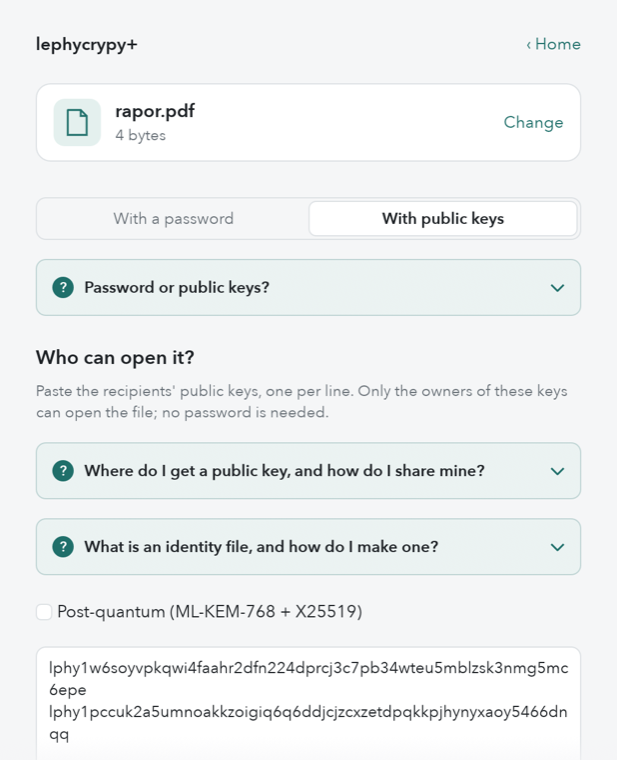
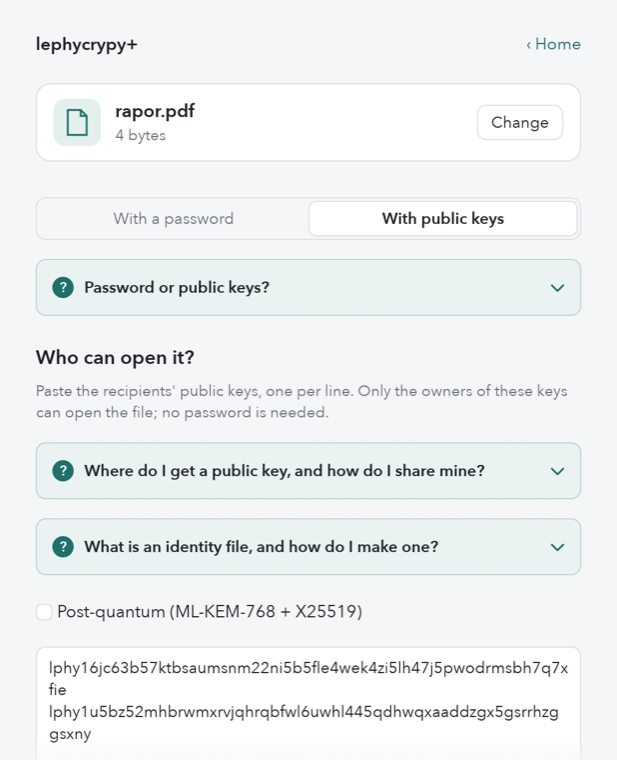
Docs: several vaults, public-key and USB vaults, lock moments, QR codes
README (English and Turkish), threat model and changelog; new
screenshots of the key and vault screens.

Changed region(s): [[0.0924, 0.8474, 0.9238, 0.9987], [0.8006, 0.1513, 0.9238, 0.1816]]

diff --git a/README.tr.md b/README.tr.md
@@ -42,9 +42,13 @@ indirilir.
   adımdan önce aygıt kimliğini yeniden denetler.
 - **Masaüstü uygulaması** (macOS ve Windows, Türkçe ve İngilizce): sürükle-bırak, `.lphy`
   dosyasına çift tıklama, isteğe bağlı sağ tık girişleri (Finder Hızlı İşlemi, Gezgin menüsü).
-- **Kasa.** Şifreli bir klasörü bir kez açıp içinde çalışın, sonra kaydedip yeniden kilitleyin;
-  macOS'ta açık kopya bir RAM diskte durur. Bilgisayarın başında değilken, ekran kilitlenince ya
-  da bilgisayar uykudan uyanınca kendiliğinden kaydedilip kilitlenir.
+- **Kasalar.** Şifreli bir klasörü bir kez açıp içinde çalışın, sonra kaydedip yeniden
+  kilitleyin; macOS'ta açık kopya bir RAM diskte durur. Aynı anda istediğiniz kadar kasa açık
+  olabilir; kasa parolayla ya da açık anahtarlarla kilitlenir; her USB bellek kasa olabilir.
+  Bilgisayarın başında değilken, ekran kilitlenince, uykudan önce, pencere kapatılınca ya da
+  klasörü kapatılınca kendiliğinden kaydedilip kilitlenir.
+- **QR kod:** anahtarın kâğıt yedeği için (macOS'ta yazdırma ile) ve açık anahtarı telefonla
+  paylaşmak için.
 - **Diske yazmadan önizleme.** Şifreli bir metin, PNG ya da JPEG'e bellekte bakın; diske hiçbir
   şey yazılmaz.
 - **Kuyruk.** Birden çok dosya sırayla, her birinin durumu görünerek işlenir; iş sürerken yenileri
@@ -171,7 +175,8 @@ Ayrıntılar İngilizce README'dedir.
 
 İlk açılışta üç adımlı kısa bir tanıtım çıkar. Sonrasında açılış ekranında altı kart vardır:
 **Şifrele**, **Şifreyi çöz**, **Anahtarlarım** (anahtar çifti oluşturma, bir kimliğin açık
-anahtarlarını gösterme, kâğıt yedeği alma ya da ondan geri yükleme), **Ayarlar**, **Kasa** ve
+anahtarlarını gösterme — QR kod olarak da — kâğıt yedeğini QR koduyla alma, macOS'ta yazdırma
+ya da ondan geri yükleme), **Ayarlar**, **Kasa** ve
 **USB belleğe yaz**. Altında bir bırakma alanı bulunur. Her ekranda kısa **?** yardım kutuları
 vardır; açılış ekranındaki **Yardım** hepsini bir arada gösterir.
 
@@ -206,8 +211,9 @@ durumuna küçültür.
   kullanılmasını engeller (komut satırı aracını değil); şifreli dosyalar kendi parolaları ve
   anahtarlarıyla korunur. Kilit Anahtar Zinciri'nde de (Windows'ta Kimlik Bilgisi Yöneticisi'nde)
   saklanır; parolayı unutursanız oradaki "lephycrypy+" kaydını ve ayar dosyasını silin.
-- **Kasa:** açık bir kasayı 5, 15 (varsayılan), 30 ya da 60 dakika hareketsizlikten sonra
-  kilitleme ya da hiç kilitlememe; ekran kilitlenince ya da bilgisayar uykudan uyanınca kilitleme.
+- **Kasa:** açık kasaları 5, 15 (varsayılan), 30 ya da 60 dakika hareketsizlikten sonra
+  kilitleme ya da hiç kilitlememe; ayrıca her biri ayrı anahtarla: ekran kilitlenince (uykudan
+  önce ve uyanınca da), pencere kapatılınca, çıkarken sormadan ve kasa klasörü kapatılınca.
 - **Bakım:** bir klasörde yarıda kalan şifre çözmelerin artıklarını arama (ev klasörü,
   Masaüstü, İndirilenler ve Belgeler açılışta kendiliğinden taranır).
 - **Finder Hızlı İşlemi** (macOS, yalnızca .app paketi): Finder'da sağ tık → **Hızlı İşlemler**
@@ -234,17 +240,31 @@ listeler; liste yalnızca bellekte tutulur.
 
 ### Kasa (masaüstü uygulaması)
 
-Ana sayfa › **Kasa**: **Kasa aç…** (şifreli bir klasör ve parolası) ya da **Yeni boş kasa
-oluştur…** (ad, yer ve parola). Klasör Finder'da / Gezgin'de açılır ve uygulamanın üstündeki şerit
-kasanın açık olduğunu gösterir. İçinde her zamanki gibi çalışın, sonra **Kaydet ve kilitle** ile
-aynı parolayla yeniden şifreleyip açık kopyayı kaldırın (**Kaydet** kasayı açık bırakır).
-macOS'ta açık kopya bir RAM diskte (yalnızca bellekte), Windows'ta gizli bir uygulama klasöründe
-durur ve kasa kapatılınca üzerine yazılarak silinir.
+Ana sayfa › **Kasa**: **Kasa aç…**, **Yeni boş kasa oluştur…** ya da **USB belleği kasa
+yap…**. Klasör Finder'da / Gezgin'de açılır ve uygulamanın üstünde her açık kasa için bir kart
+çıkar; kartta üç düğme vardır: **Kaydet ve kilitle** (yeniden şifreleyip açık kopyayı kaldırır),
+**Klasörü aç** ve **⋯** (**Yalnızca kaydet**, **Kaydetmeden kapat…**). Aynı anda istediğiniz
+kadar kasa açık olabilir. macOS'ta açık kopya bir RAM diskte (yalnızca bellekte; açık kasaların
+toplamı belleğin en çok yarısını kullanabilir), Windows'ta gizli bir uygulama klasöründe durur
+ve kasa kapatılınca üzerine yazılarak silinir.
 
-Kasa, ayarlanan süre boyunca klavye ve fare kullanılmazsa (varsayılan 15 dakika), ekran
-kilitlenince ve bilgisayar uykudan uyanınca kendiliğinden kaydedilip kilitlenir; bu, pencere
-gizliyken de arka planda çalışır. Kasa açıkken çıkmak önce sorar; bir çökme yüzünden açık kalan
-kasa bir sonraki açılışta bulunur.
+Yeni bir kasa **parolayla** ya da **açık anahtarlarla** kilitlenir. Açık anahtarlarla kilitli
+bir kasa kimlik dosyasıyla açılır; alıcı listesi kasanın içinde (`.lephy-recipients`, kasayla
+birlikte şifreli) tutulur ve kartın **Alıcılar** düğmesiyle düzenlenir. Her kaydetmenin
+doğrulanabilmesi için listede kendi anahtarınız kalmalıdır.
+
+**USB bellekler.** "USB belleği kasa yap" ya belleğe bir kasa dosyası ekler ve diğer dosyaları
+korur, ya da belleği önce siler (adını ve boyutunu yazdıktan sonra). Kasa içeren bir bellek
+takılınca üstte bir şerit onu açmayı önerir (parola sorar; kendiliğinden hiçbir şey açılmaz).
+Açık kopya bu bilgisayarın belleğinde durur; belleğe yalnızca kilitlerken şifreli dosya yazılır.
+Kasası açıkken bellek çıkarılırsa kart kırmızıya döner ve **Başka yere kaydet…** önerir.
+
+Kasalar, ayarlanan süre boyunca klavye ve fare kullanılmazsa (varsayılan 15 dakika), ekran
+kilitlenince, bilgisayar uykuya geçmeden önce ve uyanınca, pencere kapatılınca, çıkarken ve
+kasanın Finder / Gezgin penceresi kapatılıp içindeki hiçbir dosya açık değilken (30 saniye sonra;
+macOS bunun için bir kez Finder'ı denetleme izni ister) kendiliğinden kaydedilip kilitlenir. Her
+anın Ayarlar › Kasa'da ayrı bir anahtarı vardır. Denetimler pencere gizliyken de arka planda
+çalışır. Bir çökme yüzünden açık kalan kasa bir sonraki açılışta bulunur.
 
 ### USB belleğe yazma (masaüstü uygulaması)
 

diff --git a/README.md b/README.md
@@ -42,9 +42,13 @@ effort** basis.
   checks before every destructive step.
 - **Desktop app** for macOS and Windows in English and Turkish: drag and drop, double-click `.lphy`
   files, and optional right-click entries (a Finder Quick Action, an Explorer menu entry).
-- **Vault.** Open an encrypted folder once, work in it, then save and lock it again; on macOS the
-  open copy lives on a RAM disk. It saves and locks itself when you are away, the screen locks or
-  the computer wakes from sleep.
+- **Vaults.** Open an encrypted folder once, work in it, then save and lock it again; on macOS the
+  open copy lives on a RAM disk. Any number can be open; a vault can be locked with a password or
+  to public keys; any USB stick can hold one. They save and lock themselves when you are away,
+  the screen locks, before the computer sleeps, when the window is closed or the folder is put
+  away.
+- **QR codes** for the paper backup of a key (with printing on macOS) and for sharing a public
+  key with a phone.
 - **Preview without writing.** Look at an encrypted text, PNG or JPEG in memory; nothing is written
   to disk.
 - **Queue.** Several files one after another with per-item states; add more while it runs and
@@ -197,8 +201,8 @@ NTFS resident files and wear levelling mean physical erasure is not guaranteed.
 
 `lephycrypy-gui` (macOS and Windows) is a single, simple window. The first launch shows a short
 three-step introduction; after that the start screen has six cards — **Encrypt**, **Decrypt**,
-**My keys** (create a key pair, show the public keys of an identity, take its paper backup or
-restore one from it), **Settings**, **Vault** and **Write to a USB stick** — and a drop area.
+**My keys** (create a key pair, show the public keys of an identity — also as a QR code — take
+its paper backup with a QR code, print it on macOS, or restore one from it), **Settings**, **Vault** and **Write to a USB stick** — and a drop area.
 Every screen has short **?** help boxes; **Help** on the start screen collects them.
 
 1. Drop files or folders on the window, or use the **Encrypt** / **Decrypt** cards. `.lphy` files
@@ -231,8 +235,9 @@ runs minimises the window.
   desktop app (not the command-line tool); encrypted files are protected by their own passwords
   and keys. The lock is also kept in the keychain (Credential Manager on Windows). If you forget
   it, delete the "lephycrypy+" item there and the settings file.
-- **Vault:** lock an open vault after 5, 15 (default), 30 or 60 minutes without input, or never;
-  and when the screen locks or the computer wakes from sleep.
+- **Vault:** lock open vaults after 5, 15 (default), 30 or 60 minutes without input, or never;
+  and, each with its own switch, when the screen locks (also before sleep and after waking), when
+  the window is closed, on quit without asking, and when the vault folder is closed.
 - **Maintenance:** search a folder for leftovers of an interrupted decryption (the home, Desktop,
   Downloads and Documents folders are checked at start).
 - **Finder Quick Action** (macOS, app bundle only): adds "Encrypt or open with lephycrypy+" under
@@ -263,17 +268,32 @@ session's jobs; the list is kept in memory only.
 
 ### Vault (desktop app)
 
-Home › **Vault**: **Open a vault…** (an encrypted folder and its password) or **Create a new
-vault…** (a name, a place and a password). The folder opens in Finder / Explorer and a bar at the
-top of the app shows it is open. Work in it as usual, then press **Save and lock** to encrypt it
-again with the same password and remove the open copy (**Save** keeps it open). On macOS the open
-copy lives on a RAM disk (memory only); on Windows in a hidden app folder that is overwritten and
+Home › **Vault**: **Open a vault…**, **Create a new vault…** or **Turn a USB stick into a
+vault…**. The folder opens in Finder / Explorer and a card at the top of the app shows each open
+vault with three buttons: **Save and lock** (encrypt it again and remove the open copy),
+**Open folder**, and **⋯** (**Save only**, **Close without saving…**). Any number of vaults can be
+open at once. On macOS the open copy lives on a RAM disk (memory only; all open vaults together
+may use at most half the memory); on Windows in a hidden app folder that is overwritten and
 deleted when the vault is closed.
 
-The vault saves and locks itself after the set time without input (15 minutes by default), when
-the screen locks and when the computer wakes from sleep; this runs in the background even while
-the window is hidden. Quitting with a vault open asks first, and a vault left open by a crash is
-found at the next start.
+A new vault is locked **with a password** or **to public keys**. A vault locked to public keys
+is opened with an identity file; its recipient list is kept inside the vault
+(`.lephy-recipients`, encrypted with it) and edited from the card's **Recipients** button. The
+list must keep your own key, so every save can be checked.
+
+**USB sticks.** "Turn a USB stick into a vault" either adds a vault file and keeps the stick's
+other files, or wipes the stick first (after you type its label and size). When a stick holding a
+vault is plugged in, a bar offers to open it (it asks for the password; nothing opens by itself).
+The open copy stays in this computer's memory; only the encrypted file is written to the stick
+when you lock. If the stick is pulled out while its vault is open, the card turns red and offers
+**Save somewhere else…**.
+
+Vaults save and lock themselves after the set time without input (15 minutes by default), when
+the screen locks, before the computer sleeps and after it wakes, when the window is closed, on
+quit, and when the vault's Finder / Explorer window is closed and none of its files is open (after
+30 seconds; on macOS this asks once for permission to control Finder). Each moment has a switch
+in Settings › Vault. The checks run in the background even while the window is hidden. A vault
+left open by a crash is found at the next start.
 
 ### Write to a USB stick (desktop app)
 

diff --git a/docs/THREAT-MODEL.md b/docs/THREAT-MODEL.md
@@ -217,10 +217,46 @@ locks, and when the computer wakes from sleep (noticed from the clocks; macOS
 `GetLastInputInfo` / the input desktop). The watch runs on its own thread with its own handle on the
 vault, because the window draws nothing while it is hidden or the screen is locked; on macOS App
 Nap is held off while a vault is open. This only works while the app runs: it is not a
-substitute for locking by hand, and the vault stays open during sleep itself. Vaults are only for
-archives locked with a password: files encrypted to
-public keys (the recipients' keys are not in the file), with error correction, split files and
-raw streams are refused.
+substitute for locking by hand. Files with error correction, split files and raw streams are
+refused as vaults.
+
+Lock moments (Settings › Vault, each can be turned off): before the computer sleeps (macOS
+`IORegisterForSystemPower`: sleep waits up to about 25 s for the vaults to save; Windows
+`PowerRegisterSuspendResumeNotification`: Windows waits only about two seconds, so a large vault
+may not finish and then locks after waking), when the window is closed or hidden, on quit without
+asking (asks if saving fails), and when the vault folder is closed. The last one asks Finder for
+the folders its windows show (`osascript`; macOS asks once for Automation permission, and a
+refusal turns the check off) and `lsof` for open files, every 10 s; Windows only checks
+Explorer windows (PowerShell `Shell.Application`). It locks once the folder was seen open and then
+stayed closed with no open file for 30 s, so a program that keeps a file open without a window
+holds the vault open.
+
+Several vaults: each has its own watch and save; all RAM disks together may use at most half the
+memory.
+
+Vaults locked to public keys: opened with an identity file (its password is used once to read the
+identity, which then stays in locked memory while the vault is open, because each save is
+verified with it). The recipient list is `.lephy-recipients` at the vault root, encrypted with the
+vault; anyone who can open the vault can change it, and so can any program running as the user
+while it is open. Saving refuses an empty list, invalid keys, or a list without the opener's own
+key. As with `set-recipients`, a key removed from the list still opens copies saved before.
+
+USB vaults: the open copy is not on the stick; only the encrypted file is written there on save
+(temporary file, verify, replace; on FAT/exFAT the replace is not atomic everywhere). If the stick
+is pulled out the vault stays open and cannot be saved there; "Save somewhere else" writes it to
+a new file. Turning a stick into a vault with "wipe" uses the USB engine's checks (eligible USB
+stick, typed label and size, identity read again, deletion through a checked handle); files
+deleted from flash memory may be recoverable, so "keep the files" leaves what was there.
+Plugged-in sticks are noticed by polling the mounted volumes every 3 s; nothing is opened
+without the password.
+
+## QR codes
+The paper backup can be shown as a QR code (it holds the same 22 words, so it is as secret as
+they are; it is drawn only after "Show QR code" and the window is hidden from screen capture) and
+printed on macOS: a one-page PDF is built in memory and passed to `lp` on its standard input, but
+the print system may keep a copy in its spool until the job is printed. The QR encoder
+(`qrcodegen`) keeps working buffers that are not wiped; the module grid kept by the app is. Public
+keys are shown as QR codes for scanning; they are not secret. There is no camera scanning.
 
 ## Preview
 The desktop app can show a decrypted text, PNG or JPEG file without writing it anywhere: the

diff --git a/CHANGELOG.md b/CHANGELOG.md
@@ -110,6 +110,24 @@ Fixes from the November 2026 internal review (not an independent audit):
 - Release: SBOM tool pinned. `cargo-audit` ignores carry a review date.
 
 ### Added
+- Desktop app: any number of vaults open at once, each with its own card, background watch and
+  save; RAM disks of all open vaults together must fit in half the memory.
+- Desktop app: vaults locked to public keys. The recipient list is kept inside the vault
+  (`.lephy-recipients`) and edited from the vault's card; saving needs the opener's own key in
+  the list so the result can be verified. `Identity::try_clone` in the core.
+- Desktop app: vaults save and lock before the computer sleeps (lephy-sys `power`: IOKit power
+  notifications on macOS, suspend notifications on Windows), and Settings › Vault has switches
+  for locking when the window is closed, on quit without asking, and when the vault folder is
+  closed in Finder / Explorer with no file in it open (after 30 s).
+- Desktop app: USB vaults. "Turn a USB stick into a vault" adds a vault and keeps the stick's
+  files, or wipes the stick first (typed label and size, same engine checks as Write to USB).
+  A plugged-in stick that holds a vault brings a bar to open it; pulling it out while its vault is
+  open turns the card red with "Save somewhere else…".
+- Desktop app: QR codes for the paper backup (with printing on macOS through an in-memory PDF)
+  and for public keys. New dependency: `qrcodegen` (no dependencies, no unsafe).
+- Desktop app: every action is a real button with an icon and a role (primary, secondary,
+  danger); plain links remain for navigation and show/hide only. The vault bar became a card
+  with "Save and lock", "Open folder" and a "⋯" menu.
 - Desktop app: job queue. Several files show per-item states (waiting, running, done, failed with
   the reason, removed); files dropped while a job runs join the queue with the same settings;
   "Retry the failed ones" on the done screen; a "This session" list on the home screen kept in
